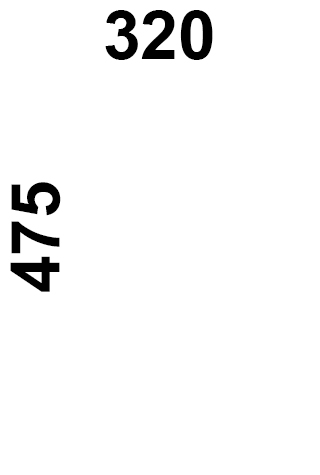
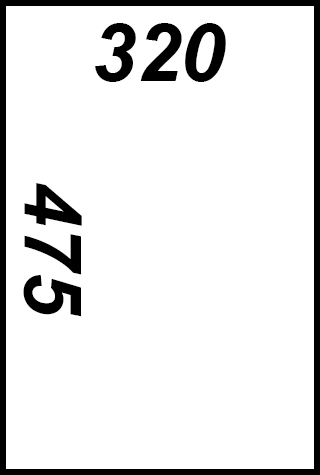
added payment

Changed region(s): [[0.0, 0.0, 1.0, 1.0]]

diff --git a/payment.html b/payment.html
@@ -1,0 +1,77 @@
+<!doctype html>
+<html lang="en">
+    <head>
+    <!-- Required meta tags -->
+    <meta charset="utf-8">
+    <meta name="viewport" content="width=device-width, initial-scale=1, shrink-to-fit=no">
+
+    <!-- Bootstrap CSS -->
+    <link rel="stylesheet" href="https://stackpath.bootstrapcdn.com/bootstrap/4.3.1/css/bootstrap.min.css" integrity="sha384-ggOyR0iXCbMQv3Xipma34MD+dH/1fQ784/j6cY/iJTQUOhcWr7x9JvoRxT2MZw1T" crossorigin="anonymous">
+    
+    <!-- Darvin CSS -->
+    <link rel="stylesheet" href = "css/main.css">
+        
+    <!-- Ubuntu Font -->  
+    <link href="https://fonts.googleapis.com/css?family=Ubuntu&display=swap" rel="stylesheet">
+        
+    <!--Font Awesome-->
+    <script src="https://kit.fontawesome.com/6313065a06.js" crossorigin="anonymous"></script>
+        
+    <title>ASLN</title>
+    </head>
+    
+    <body style = "background-image: url(images/bg_1-blur.jpg)">
+        <nav class="navbar fixed-top navbar-expand-sm navbar-dark navbar-custom">
+            <a href="#" class="navbar-brand"><img src="images/brand.png" width="200px"></a>
+            <button class="navbar-toggler" data-toggle="collapse" data-target="#navbarMenu">
+                <span class="navbar-toggler-icon"></span>
+            </button>
+            <div class="collapse navbar-collapse" id="navbarMenu">
+                <ul class="navbar-nav ml-auto">
+                    <li class="nav-item">
+                       <a href="#" class="nav-link"> My Videos</a> 
+                    </li>
+                    <li class="nav-item">
+                       <a href="#" class="nav-link"><i class="fas fa-sign-in-alt"></i> Logout</a> 
+                    </li>
+                </ul>
+            </div>
+        </nav>
+        <div class="card p-3 mx-auto" style="width: 35rem; margin-top: 150px; margin-bottom: 100px">
+            <h3 class="card-title" style="color: #1f1f1f">Video Payment</h3>
+            <img src="images/320-475.jpg" class="img-fluid mx-auto d-block mb-2" alt = "Poster">
+            <form>
+                <div class="form-group">
+                    <label for="inputCC">Credit Card Number</label>
+                    <input type="text" class="form-control" id="inputCC" placeholder="1111-2222-3333-4444" maxlength="16">
+                </div>
+                <div class="form-row">
+                    <div class="form-group col-md-6">
+                    <label for="inputBirthdayCC">Birthday</label>
+                    <input type="date" class="form-control" id="inputBirthdayCC">
+                </div>
+                    <div class="form-group col-md-6">
+                      <label for="inputCCV">CCV</label>
+                      <input type="password" class="form-control" id="inputCCV" placeholder="e.g. 343" maxlength="3">
+                    </div>
+                </div>
+                <p class="card-text" style="color: #1f1f1f; font-weight: bold">Total Bill: 3.99$</p>
+              <div class="form-group">
+                <div class="form-check">
+                  <input class="form-check-input" type="checkbox" id="gridCheck">
+                  <label class="form-check-label" for="gridCheck">
+                      I have read the <a href="#" style="color: dodgerblue">terms and conditions.</a>
+                  </label>
+                </div>
+              </div>
+              <button type="submit" class="btn btn-primary">Confirm Payment</button>
+            </form>
+        </div>
+        
+    <!-- Optional JavaScript -->
+    <!-- jQuery first, then Popper.js, then Bootstrap JS -->
+        <script src="https://code.jquery.com/jquery-3.3.1.slim.min.js" integrity="sha384-q8i/X+965DzO0rT7abK41JStQIAqVgRVzpbzo5smXKp4YfRvH+8abtTE1Pi6jizo" crossorigin="anonymous"></script>
+        <script src="https://cdnjs.cloudflare.com/ajax/libs/popper.js/1.14.7/umd/popper.min.js" integrity="sha384-UO2eT0CpHqdSJQ6hJty5KVphtPhzWj9WO1clHTMGa3JDZwrnQq4sF86dIHNDz0W1" crossorigin="anonymous"></script>
+        <script src="https://stackpath.bootstrapcdn.com/bootstrap/4.3.1/js/bootstrap.min.js" integrity="sha384-JjSmVgyd0p3pXB1rRibZUAYoIIy6OrQ6VrjIEaFf/nJGzIxFDsf4x0xIM+B07jRM" crossorigin="anonymous"></script>
+    </body>
+</html>
